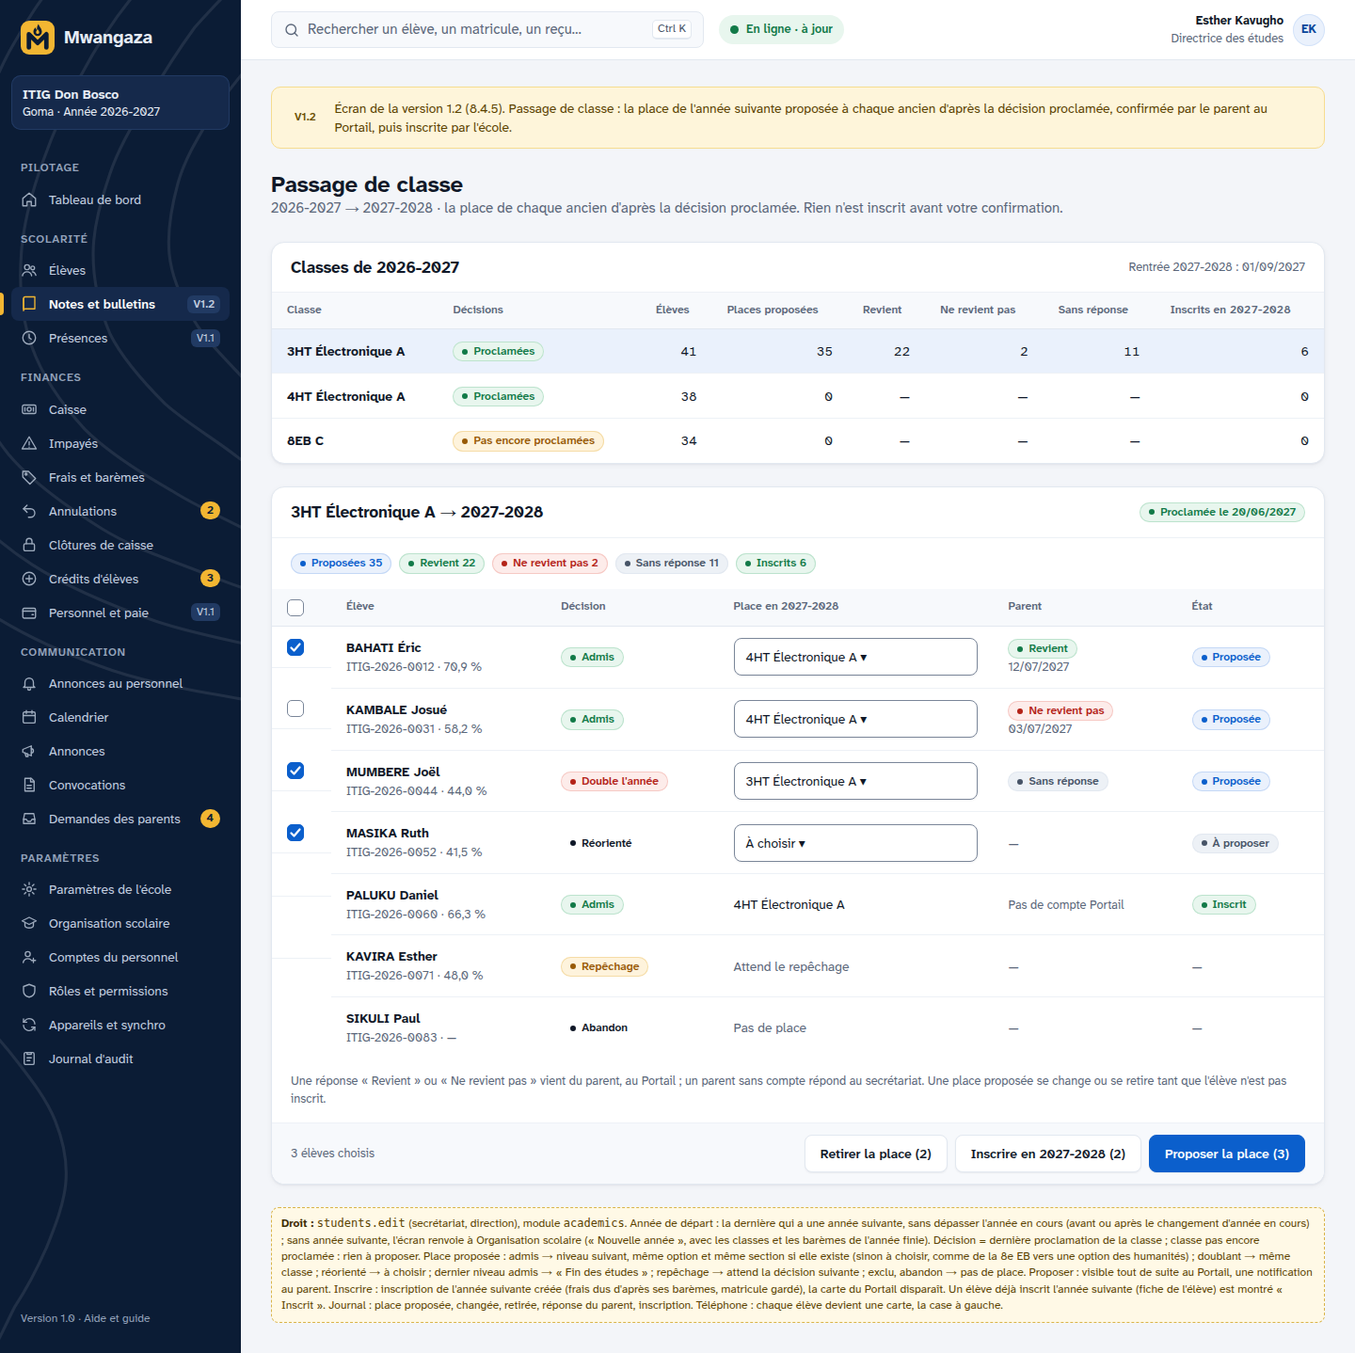
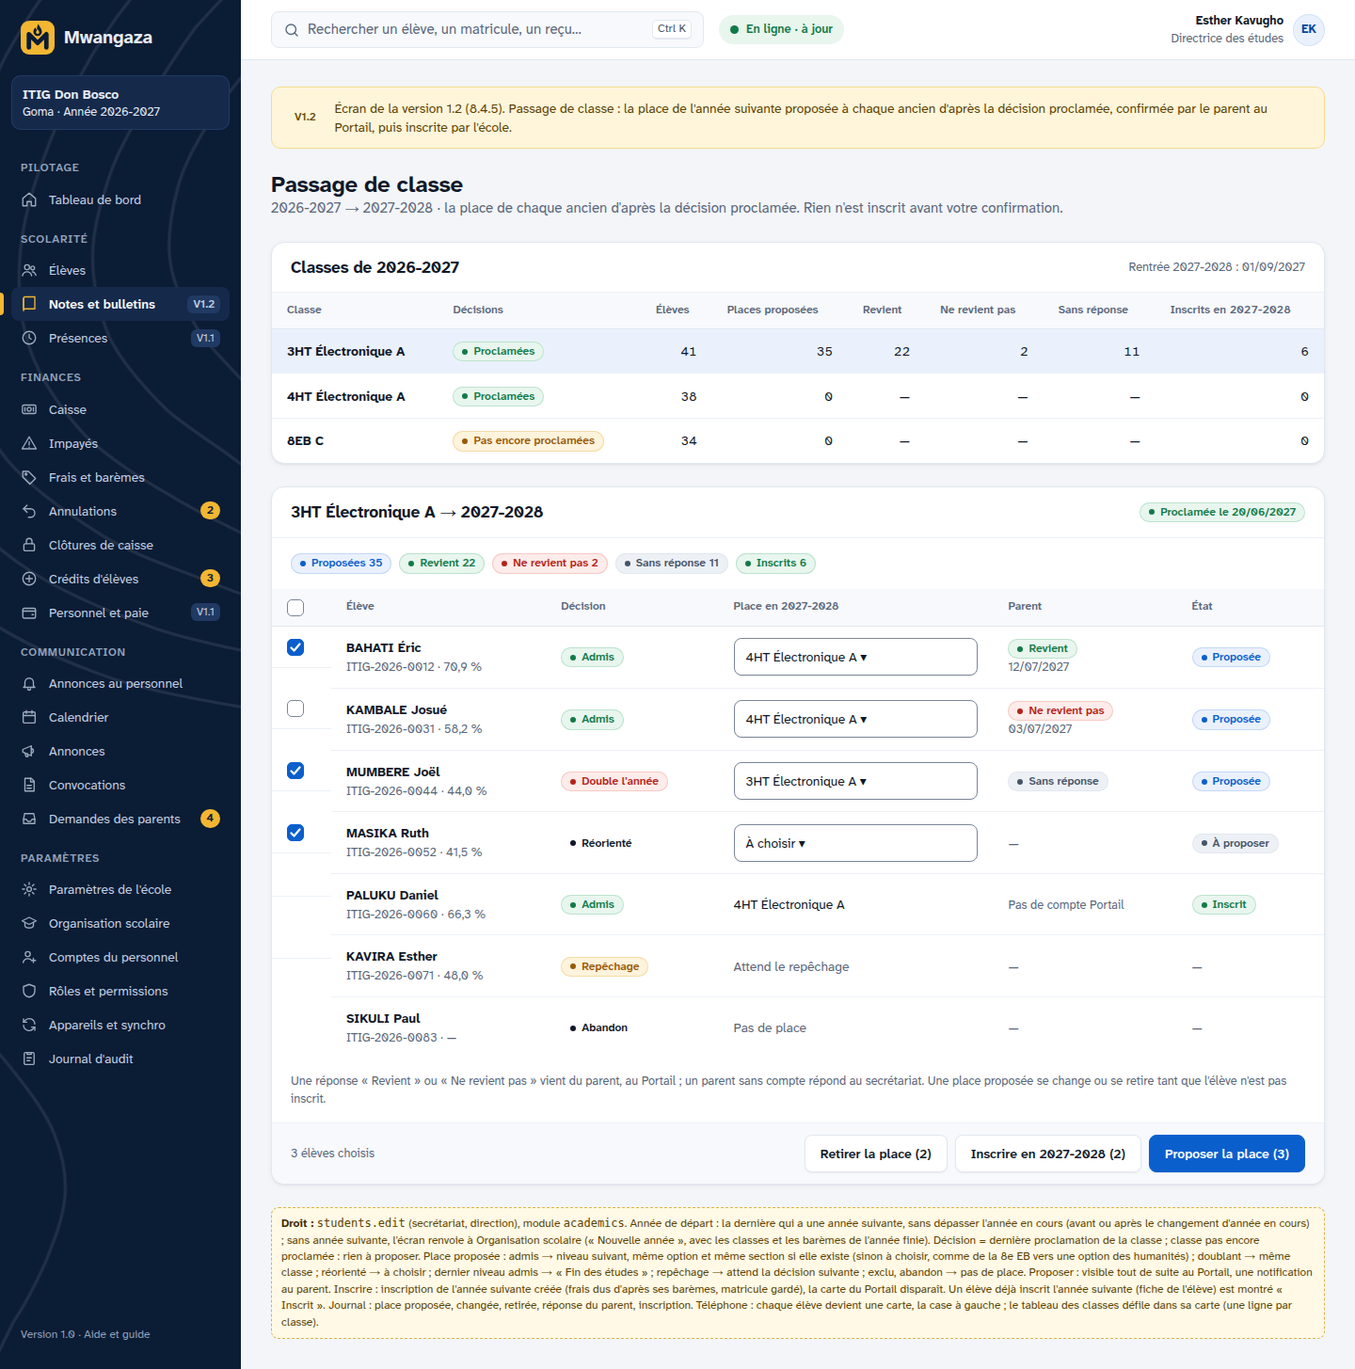
feat(demo): année 2027-2028 et places proposées dans make demo (8.4.5)

diff --git a/maquettes/gestion/passage-classe.html b/maquettes/gestion/passage-classe.html
@@ -15,7 +15,7 @@
 <div class="banner lampb"><span class="tag v">V1.2</span><span>Écran de la version 1.2 (8.4.5). Passage de classe : la place de l'année suivante proposée à chaque ancien d'après la décision proclamée, confirmée par le parent au Portail, puis inscrite par l'école.</span></div>
 <div class="pagehead"><div><h1>Passage de classe</h1><div class="muted">2026-2027 → 2027-2028 · la place de chaque ancien d'après la décision proclamée. Rien n'est inscrit avant votre confirmation.</div></div></div>
 <div class="card"><div class="hd"><h2>Classes de 2026-2027</h2><span class="muted small">Rentrée 2027-2028 : 01/09/2027</span></div>
- <div class="tblwrap"><table class="tbl stack"><tr><th>Classe</th><th>Décisions</th><th class="num">Élèves</th><th class="num">Places proposées</th><th class="num">Revient</th><th class="num">Ne revient pas</th><th class="num">Sans réponse</th><th class="num">Inscrits en 2027-2028</th></tr>
+ <div class="tblwrap"><table class="tbl"><tr><th>Classe</th><th>Décisions</th><th class="num">Élèves</th><th class="num">Places proposées</th><th class="num">Revient</th><th class="num">Ne revient pas</th><th class="num">Sans réponse</th><th class="num">Inscrits en 2027-2028</th></tr>
  <tr class="sel"><td><b>3HT Électronique A</b></td><td data-label="Décisions"><span class="pill ok">Proclamées</span></td><td data-label="Élèves" class="num">41</td><td data-label="Places proposées" class="num">35</td><td data-label="Revient" class="num">22</td><td data-label="Ne revient pas" class="num">2</td><td data-label="Sans réponse" class="num">11</td><td data-label="Inscrits en 2027-2028" class="num">6</td></tr>
  <tr><td><b>4HT Électronique A</b></td><td data-label="Décisions"><span class="pill ok">Proclamées</span></td><td data-label="Élèves" class="num">38</td><td data-label="Places proposées" class="num">0</td><td data-label="Revient" class="num">—</td><td data-label="Ne revient pas" class="num">—</td><td data-label="Sans réponse" class="num">—</td><td data-label="Inscrits en 2027-2028" class="num">0</td></tr>
  <tr><td><b>8EB C</b></td><td data-label="Décisions"><span class="pill warn">Pas encore proclamées</span></td><td data-label="Élèves" class="num">34</td><td data-label="Places proposées" class="num">0</td><td data-label="Revient" class="num">—</td><td data-label="Ne revient pas" class="num">—</td><td data-label="Sans réponse" class="num">—</td><td data-label="Inscrits en 2027-2028" class="num">0</td></tr>
@@ -33,5 +33,5 @@
  </table></div>
  <div class="bd small"><span class="muted">Une réponse « Revient » ou « Ne revient pas » vient du parent, au Portail ; un parent sans compte répond au secrétariat. Une place proposée se change ou se retire tant que l'élève n'est pas inscrit.</span></div>
  <div class="ft"><span class="small muted">3 élèves choisis</span><div class="row" style="gap:8px;flex-wrap:wrap"><a class="btn" href="#">Retirer la place (2)</a><a class="btn" href="#">Inscrire en 2027-2028 (2)</a><a class="btn primary" href="#">Proposer la place (3)</a></div></div></div>
-<div class="note"><b>Droit :</b> <code>students.edit</code> (secrétariat, direction), module <code>academics</code>. Année de départ : la dernière qui a une année suivante, sans dépasser l'année en cours (avant ou après le changement d'année en cours) ; sans année suivante, l'écran renvoie à Organisation scolaire (« Nouvelle année », avec les classes et les barèmes de l'année finie). Décision = dernière proclamation de la classe ; classe pas encore proclamée : rien à proposer. Place proposée : admis → niveau suivant, même option et même section si elle existe (sinon à choisir, comme de la 8e EB vers une option des humanités) ; doublant → même classe ; réorienté → à choisir ; dernier niveau admis → « Fin des études » ; repêchage → attend la décision suivante ; exclu, abandon → pas de place. Proposer : visible tout de suite au Portail, une notification au parent. Inscrire : inscription de l'année suivante créée (frais dus d'après ses barèmes, matricule gardé), la carte du Portail disparaît. Un élève déjà inscrit l'année suivante (fiche de l'élève) est montré « Inscrit ». Journal : place proposée, changée, retirée, réponse du parent, inscription. Téléphone : chaque élève devient une carte, la case à gauche.</div>
+<div class="note"><b>Droit :</b> <code>students.edit</code> (secrétariat, direction), module <code>academics</code>. Année de départ : la dernière qui a une année suivante, sans dépasser l'année en cours (avant ou après le changement d'année en cours) ; sans année suivante, l'écran renvoie à Organisation scolaire (« Nouvelle année », avec les classes et les barèmes de l'année finie). Décision = dernière proclamation de la classe ; classe pas encore proclamée : rien à proposer. Place proposée : admis → niveau suivant, même option et même section si elle existe (sinon à choisir, comme de la 8e EB vers une option des humanités) ; doublant → même classe ; réorienté → à choisir ; dernier niveau admis → « Fin des études » ; repêchage → attend la décision suivante ; exclu, abandon → pas de place. Proposer : visible tout de suite au Portail, une notification au parent. Inscrire : inscription de l'année suivante créée (frais dus d'après ses barèmes, matricule gardé), la carte du Portail disparaît. Un élève déjà inscrit l'année suivante (fiche de l'élève) est montré « Inscrit ». Journal : place proposée, changée, retirée, réponse du parent, inscription. Téléphone : chaque élève devient une carte, la case à gauche ; le tableau des classes défile dans sa carte (une ligne par classe).</div>
 </main></div></div></body></html>

diff --git a/frontend/apps/gestion/src/features/promotion/PromotionPage.tsx b/frontend/apps/gestion/src/features/promotion/PromotionPage.tsx
@@ -121,7 +121,7 @@ function ClassesCard({
           <Banner tone="info">{t("promotion.noClass")}</Banner>
         </CardContent>
       ) : (
-        <Table stacked>
+        <Table>
           <thead>
             <tr>
               <th>{t("promotion.class")}</th>
@@ -248,7 +248,7 @@ function ClassPlaces({ classId }: { classId: string }) {
     return (
       <Select
         aria-label={t("promotion.placeFor", { name: row.full_name })}
-        className="min-w-48"
+        className="min-w-48 flex-1 sm:flex-none"
         value={destination(row, drafts)}
         onChange={(event) => {
           setDrafts({ ...drafts, [row.enrollment]: event.target.value });
@@ -333,7 +333,7 @@ function ClassPlaces({ classId }: { classId: string }) {
             {t("promotion.noAnswer")} {board.counts.no_answer}
           </StatusPill>
           <StatusPill tone="ok">
-            {t("promotion.enrolled")} {board.counts.enrolled}
+            {t("promotion.enrolledCount")} {board.counts.enrolled}
           </StatusPill>
         </div>
       </CardContent>
@@ -385,7 +385,7 @@ function ClassPlaces({ classId }: { classId: string }) {
                 </span>
               </td>
               <td data-label={t("promotion.decision")}>{decisionPill(row)}</td>
-              <td data-label={t("promotion.placeIn", { year: following })}>{placeCell(row)}</td>
+              <td data-label={t("promotion.place")}>{placeCell(row)}</td>
               <td data-label={t("promotion.parent")}>{parentCell(row)}</td>
               <td data-label={t("promotion.state")}>{stateCell(row)}</td>
             </tr>

diff --git a/frontend/packages/i18n/src/locales/en.ts b/frontend/packages/i18n/src/locales/en.ts
@@ -1208,6 +1208,7 @@ export const en: Messages<typeof fr> = {
     noAnswer: "No answer",
     enrolledIn: "Enrolled in {{year}}",
     enrolled: "Enrolled",
+    enrolledCount: "Enrolled",
     proclaimed: "Proclaimed",
     notProclaimed: "Not proclaimed yet",
     proclaimedOn: "Proclaimed on {{date}}",
@@ -1216,6 +1217,7 @@ export const en: Messages<typeof fr> = {
     student: "Student",
     decision: "Decision",
     placeIn: "Place in {{year}}",
+    place: "Place",
     parent: "Parent",
     state: "Status",
     placeFor: "Place for {{name}}",

diff --git a/frontend/packages/i18n/src/locales/fr.ts b/frontend/packages/i18n/src/locales/fr.ts
@@ -1217,6 +1217,7 @@ export const fr = {
     noAnswer: "Sans réponse",
     enrolledIn: "Inscrits en {{year}}",
     enrolled: "Inscrit",
+    enrolledCount: "Inscrits",
     proclaimed: "Proclamées",
     notProclaimed: "Pas encore proclamées",
     proclaimedOn: "Proclamée le {{date}}",
@@ -1226,6 +1227,7 @@ export const fr = {
     student: "Élève",
     decision: "Décision",
     placeIn: "Place en {{year}}",
+    place: "Place",
     parent: "Parent",
     state: "État",
     placeFor: "Place de {{name}}",

diff --git a/frontend/apercu/ecrans.spec.ts b/frontend/apercu/ecrans.spec.ts
@@ -126,6 +126,7 @@ test("tous les écrans à 390, 820 et 1440 px", async ({ browser }) => {
       "announcements",
       "summons",
       "parent-requests",
+      "promotion",
       "settings",
       "organisation",
       "staff",

diff --git a/backend/apps/academics/demo.py b/backend/apps/academics/demo.py
@@ -21,7 +21,7 @@ from django.utils import timezone, translation
 from django.utils.translation import gettext
 
 from apps.academics import deliberation as deliberation_module
-from apps.academics import report_cards, resits
+from apps.academics import promotion, report_cards, resits
 from apps.academics.discipline import DEFAULT_RULES
 from apps.academics.grades import term_maximum
 from apps.academics.models import (
@@ -37,16 +37,19 @@ from apps.academics.models import (
     Grade,
     GradeDeadline,
     GradeSheet,
+    PlaceConfirmation,
     ResitGrade,
 )
 from apps.academics.official import BY_KEY
 from apps.accounts.models import User
 from apps.accounts.roles import GRADES_VALIDATE
 from apps.core.tenancy import use_school
+from apps.finance import services as finance
+from apps.schools import organisation
 from apps.schools.demo import DemoSpace
-from apps.schools.models import ClassGroup, Term
+from apps.schools.models import AcademicYear, ClassGroup, Term
 from apps.schools.organisation import current_year
-from apps.students.models import Enrollment
+from apps.students.models import Enrollment, Family
 
 # (niveau, code de l'option) → grille ; une classe sans grille connue n'a pas de cours.
 BASIC = "basic_education"
@@ -483,3 +486,165 @@ def _create_demo_discipline(term: Term, students: dict, draw: random.Random) -> 
         ApplicationGrade.objects.create(
             enrollment=first, term=term, grade="TB", reason=reason, corrected_by=author
         )
+
+
+# Passage de classe (8.4.5) : l'année suivante préparée (classes et barèmes de l'année en cours,
+# sans journal), la classe de l'enfant du parent de démonstration proclamée et des places
+# proposées à la plupart des élèves, avec des réponses variées ; celle de l'enfant attend sa
+# réponse au Portail. Rien n'est inscrit : c'est à essayer.
+PROMOTION_DECISIONS = {"pass": 70, "repeat": 14, "resit": 8, "orient": 4, "dropped": 4}
+PROMOTION_OUTCOMES = {
+    "pass": "passed",
+    "repeat": "failed",
+    "resit": "resit",
+    "orient": "orient",
+    "dropped": "incomplete",
+}
+PERCENTS = {"pass": (52, 86), "repeat": (36, 49), "resit": (45, 50), "orient": (28, 40)}
+# Places pas encore proposées ; réponses des parents : une sur huit « ne revient pas », une sur
+# trois pas encore, les autres « revient ».
+NOT_OFFERED_SHARE = 0.15
+
+
+def _demo_answer(index: int) -> str:
+    return "no" if index % 8 == 3 else "" if index % 3 == 2 else "yes"
+
+
+def create_demo_promotion(spaces: list[DemoSpace]) -> None:
+    for space in spaces:
+        if space.profile != "itig":
+            continue
+        draw = random.Random(f"promotion-{space.school.code}")
+        with use_school(space.school):
+            year = current_year()
+            family = Family.objects.order_by("created_at", "id").first()
+            group = _promotion_class(year, family) if year and family else None
+            if group is None:
+                continue
+            following = _next_demo_year(year)
+            _proclaim_for_promotion(group, year, family, draw)
+            _offer_demo_places(group, following, family, draw)
+
+
+def _next_demo_year(year: AcademicYear) -> AcademicYear:
+    """L'année suivante, créée une fois (découpage du secondaire, classes et barèmes copiés) ;
+    ensuite gardée telle que l'école l'a peut-être changée."""
+    name = f"{year.starts_on.year + 1}-{year.ends_on.year + 1}"
+    following = AcademicYear.objects.filter(name=name).first()
+    if following is None:
+        following = AcademicYear.objects.create(
+            name=name,
+            starts_on=year.starts_on.replace(year=year.starts_on.year + 1),
+            ends_on=year.ends_on.replace(year=year.ends_on.year + 1),
+        )
+        organisation._write_terms(
+            following, organisation.template_terms(organisation.YearTemplate.SECONDARY), actor=None
+        )
+        organisation._copy_classes(year, following, actor=None)
+        finance.copy_fee_rules(year, following, actor=None)
+    return following
+
+
+def _promotion_class(year, family: Family) -> ClassGroup | None:
+    """La classe de l'enfant du compte du portail, sauf une classe déjà prise par une autre
+    démonstration (délibération en cours) ou de dernière année ; sinon la première libre."""
+    taken = set(
+        Deliberation.objects.filter(
+            class_group__academic_year=year, status=Deliberation.Status.DRAFT
+        ).values_list("class_group_id", flat=True)
+    )
+    usable = ClassGroup.objects.filter(academic_year=year, level__has_state_exam=False).exclude(
+        pk__in=taken
+    )
+    child = (
+        Enrollment.objects.filter(
+            academic_year=year, student__family=family, class_group__in=usable
+        )
+        .order_by("student__birth_date", "pk")
+        .first()
+    )
+    return child.class_group if child else usable.select_related("level", "track").first()
+
+
+def _proclaim_for_promotion(group: ClassGroup, year, family: Family, draw: random.Random) -> None:
+    Deliberation.objects.filter(class_group=group).delete()
+    director = User.objects.filter(
+        memberships__school=group.school,
+        memberships__roles__permissions__contains=[GRADES_VALIDATE],
+    ).first()
+    if director is None:
+        return
+    deliberation = Deliberation.objects.create(
+        class_group=group,
+        held_on=year.ends_on - timedelta(days=5),
+        status=Deliberation.Status.PROCLAIMED,
+        version=1,
+    )
+    enrollments = Enrollment.objects.filter(
+        class_group=group, status=Enrollment.Status.ACTIVE
+    ).select_related("student")
+    decisions, rows = [], []
+    for enrollment in enrollments.order_by("student__last_name", "student__first_name", "pk"):
+        mine = enrollment.student.family_id == family.pk
+        decision = (
+            "pass"
+            if mine
+            else draw.choices(list(PROMOTION_DECISIONS), list(PROMOTION_DECISIONS.values()))[0]
+        )
+        low, high = PERCENTS.get(decision, (None, None))
+        percent = Decimal(draw.randint(low * 10, high * 10)) / 10 if low else None
+        decisions.append(
+            DeliberationDecision(
+                deliberation=deliberation,
+                enrollment=enrollment,
+                decision=decision,
+                proposed=decision,
+            )
+        )
+        rows.append(
+            {
+                "enrollment": str(enrollment.pk),
+                "student": enrollment.student.full_name,
+                "percent": str(percent) if percent is not None else None,
+                "outcome": PROMOTION_OUTCOMES[decision],
+                "proposed": decision,
+                "decision": decision,
+                "reason": "",
+                "deviates": False,
+                "resit_courses": [],
+            }
+        )
+    DeliberationDecision.objects.bulk_create(decisions)
+    DeliberationSnapshot.objects.create(
+        deliberation=deliberation,
+        version=1,
+        held_on=deliberation.held_on,
+        proclaimed_at=timezone.now(),
+        proclaimed_by=director,
+        rows=rows,
+    )
+
+
+def _offer_demo_places(group: ClassGroup, following, family: Family, draw) -> None:
+    """Places proposées d'après la décision ; ce que l'école a inscrit en essayant est gardé."""
+    PlaceConfirmation.objects.filter(enrollment__class_group=group).exclude(
+        status=PlaceConfirmation.Status.ENROLLED
+    ).delete()
+    now = timezone.now()
+    places = []
+    for row in promotion.class_passage(group).rows:
+        if row.enrolled_class or row.place or row.proposed_class is None:
+            continue
+        mine = row.enrollment.student.family_id == family.pk
+        if not mine and draw.random() < NOT_OFFERED_SHARE:
+            continue
+        answer = "" if mine else _demo_answer(len(places))
+        places.append(
+            PlaceConfirmation(
+                enrollment=row.enrollment,
+                class_group=row.proposed_class,
+                answer=answer,
+                answered_at=now - timedelta(days=draw.randint(1, 9)) if answer else None,
+            )
+        )
+    PlaceConfirmation.objects.bulk_create(places)

diff --git a/backend/apps/core/tests/test_demo.py b/backend/apps/core/tests/test_demo.py
@@ -12,7 +12,13 @@ import pytest
 from django.contrib.auth import authenticate
 from django.core.management import CommandError, call_command
 
-from apps.academics.models import Deliberation, DisciplineIncident, DisciplineRule, Grade
+from apps.academics.models import (
+    Deliberation,
+    DisciplineIncident,
+    DisciplineRule,
+    Grade,
+    PlaceConfirmation,
+)
 from apps.accounts import attempts, services, totp
 from apps.accounts.demo import DEMO_PASSWORD, DEMO_TOTP_SECRET
 from apps.accounts.models import Membership, Role, User
@@ -27,7 +33,7 @@ from apps.finance.models import Payment
 from apps.finance.tests.test_payments import pay, school_with_fees
 from apps.schools.demo import DemoNumbers, DemoSpace
 from apps.schools.models import AcademicYear, ClassGroup, Level, School, Track
-from apps.students.models import Enrollment, Guardian, Student
+from apps.students.models import Enrollment, Family, Guardian, Student
 from tests.factories import SchoolFactory, enable_totp
 
 pytestmark = pytest.mark.django_db
@@ -76,6 +82,17 @@ def created(demo) -> None:
         repris = paper.decisions.filter(prior_percent__isnull=False).count()
         enrolled = paper.class_group.enrollments.filter(status="active").count()
         assert repris == (enrolled + 1) // 2
+    # Passage de classe (8.4.5) : 2027-2028 préparée (pas en cours), la classe de l'enfant du
+    # portail proclamée, des places proposées et des réponses ; la sienne attend le parent.
+    with use_school(itig):
+        following = AcademicYear.objects.get(name="2027-2028")
+        assert not following.is_current
+        assert following.class_groups.count() == 23
+        places = PlaceConfirmation.objects.select_related("enrollment__student__family")
+        assert {p.answer for p in places} == {"yes", "no", ""}
+        family = Family.objects.order_by("created_at", "id").first()
+        assert [p.answer for p in places if p.enrollment.student.family == family] == [""]
+        assert not Enrollment.objects.filter(academic_year=following).exists()
 
     # Un compte par rôle, chaque école nomme ses rôles à sa façon : pas de « Directeur » à l'ITIG.
     names = [
@@ -134,10 +151,14 @@ def created(demo) -> None:
 
     # Organisation scolaire (1.7) de l'ITIG.
     with use_school(itig):
-        year = AcademicYear.objects.get()
+        year = AcademicYear.objects.get(name="2026-2027")
         levels = list(Level.objects.values_list("name", flat=True))
         tracks = set(Track.objects.values_list("code", flat=True))
-        groups = list(ClassGroup.objects.select_related("level", "track", "homeroom_teacher"))
+        groups = list(
+            ClassGroup.objects.filter(academic_year=year).select_related(
+                "level", "track", "homeroom_teacher"
+            )
+        )
         terms = list(year.terms.all())
     assert (year.name, year.is_current) == ("2026-2027", True)
     assert levels == ["7EB", "8EB", "1HT", "2HT", "3HT", "4HT"]
@@ -181,9 +202,7 @@ def rerun_puts_everything_back(demo, settings) -> None:
         cashier = Role.objects.get(name="Caissier")
         cashier.permissions = []
         cashier.save()
-        extra = AcademicYear.objects.create(
-            name="2027-2028", starts_on="2027-09-01", ends_on="2028-07-01"
-        )
+        extra = AcademicYear.objects.get(name="2027-2028")
         AcademicYear.objects.filter(name="2026-2027").update(is_current=False)
         AcademicYear.objects.filter(pk=extra.pk).update(is_current=True)
     head = User.objects.get(phone="+243000001001")
@@ -233,9 +252,10 @@ def rerun_puts_everything_back(demo, settings) -> None:
     assert not promoter.totp_enabled
     # Essais ratés débloqués.
     assert attempts.retry_after("+243000001005", "127.0.0.1") == 0
-    # Organisation : pas de double ni de journal ; l'année ajoutée en essayant est gardée.
+    # Organisation : pas de double ni de journal ; l'année suivante n'est pas recréée.
     with use_school(itig):
-        assert ClassGroup.objects.count() == 23
+        assert ClassGroup.objects.filter(academic_year__name="2026-2027").count() == 23
+        assert ClassGroup.objects.filter(academic_year=extra).count() == 23
         assert AcademicYear.objects.get(is_current=True).name == "2026-2027"
         assert AcademicYear.objects.get(name="2026-2027").terms.count() == 8
         assert AcademicYear.objects.filter(pk=extra.pk).exists()

diff --git a/backend/apps/core/demo.py b/backend/apps/core/demo.py
@@ -7,7 +7,7 @@ from collections.abc import Callable
 
 from django.db import transaction
 
-from apps.academics.demo import create_demo_courses, create_demo_grades
+from apps.academics.demo import create_demo_courses, create_demo_grades, create_demo_promotion
 from apps.accounts.demo import create_demo_accounts
 from apps.core.models import PlatformSettings
 from apps.core.tenancy import use_all_schools
@@ -55,6 +55,7 @@ STEPS: list[Callable[[list[DemoSpace]], None]] = [
     create_demo_activations,
     create_demo_event_notifications,
     create_demo_communication,
+    create_demo_promotion,
 ]
 
 
